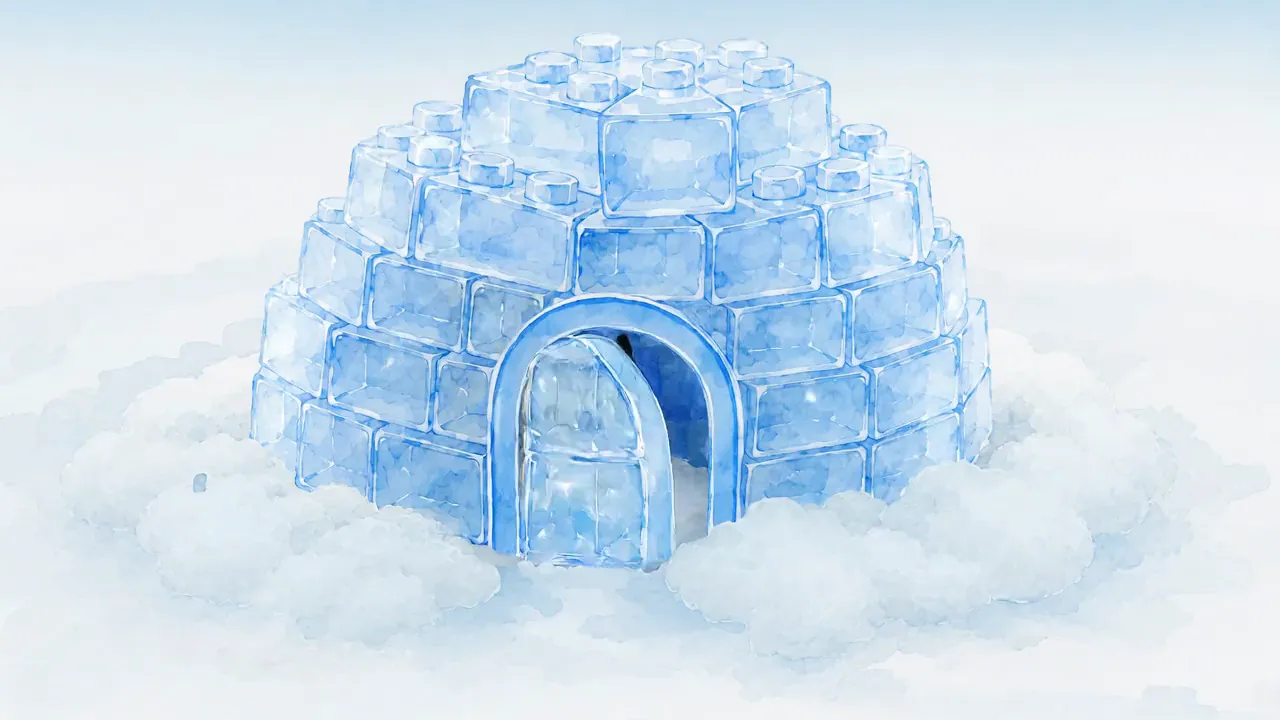
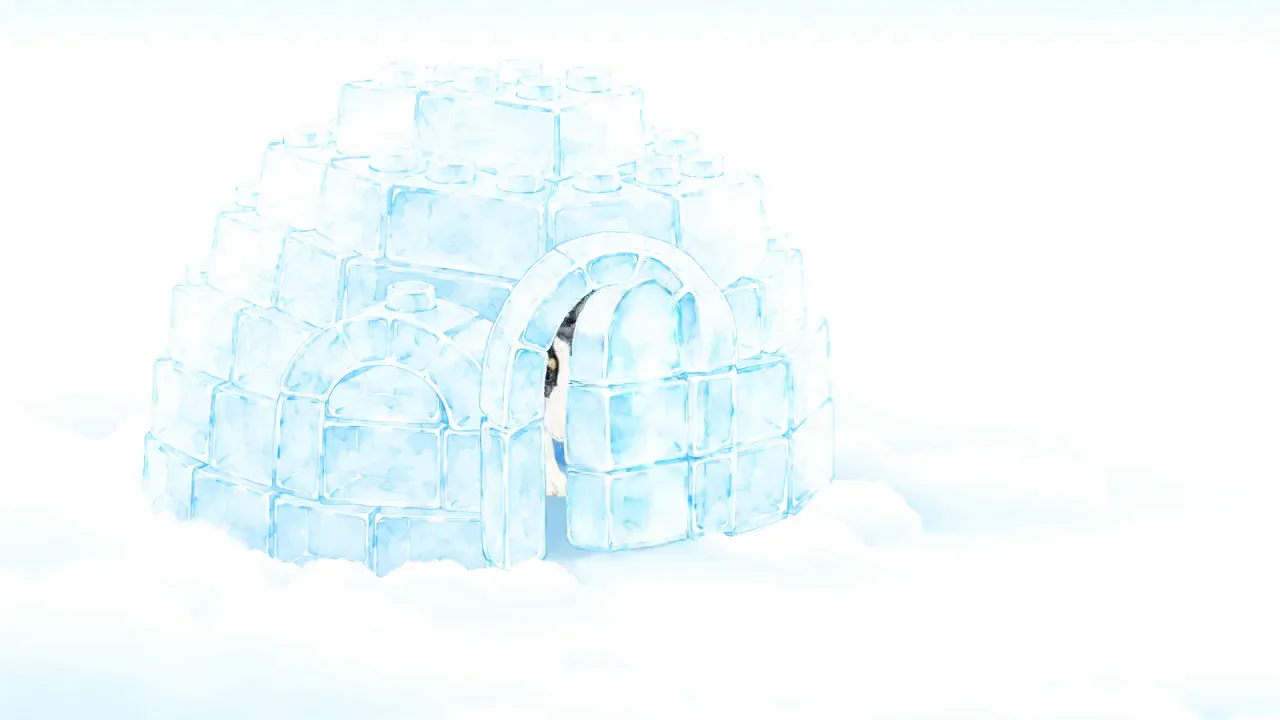
Fix §04 video blend: key out checkerboard, multiply onto white
The clips shipped with a baked-in fake-transparency checkerboard, which
read as 'pasted'. Clip highlights to pure white (ffmpeg curves @user.86) so
the checkerboard and scene clouds collapse to white while the husky and
igloo are preserved; place on a white->ice band and mix-blend-mode:multiply
so the clip's background vanishes with no visible frame edge. Re-encode
0.4MB, 28KB poster. Remove raw uploads.

diff --git a/assets/css/style.css b/assets/css/style.css
@@ -181,16 +181,16 @@ main{ position:relative; z-index:10; }
     radial-gradient(70% 50% at 50% -6%, rgba(120,108,230,.16), transparent 60%),
     linear-gradient(180deg, #E9E7FA, #EFEEFB);
 }
-/* video band — ground matched to the clip's icy backdrop (#CDDDEC) */
+/* video band — keyed clip sits on white; multiply melts its background */
 .block--vid{
-  background:linear-gradient(180deg, #DCE7F1, #CDDDEC 30%, #CDDDEC 78%, #DCE7F1);
+  background:
+    radial-gradient(60% 40% at 50% 0%, rgba(43,200,196,.06), transparent 60%),
+    linear-gradient(180deg, #FFFFFF, #F4FAFC);
 }
-.vid{ max-width:880px; margin:0 auto clamp(36px,6vw,60px); }
+.vid{ max-width:840px; margin:0 auto clamp(36px,6vw,60px); }
 .vid__player{
   display:block; width:100%; height:auto;
-  /* feather the rectangle into the matching background */
-  -webkit-mask-image:radial-gradient(115% 105% at 50% 50%, #000 62%, transparent 97%);
-          mask-image:radial-gradient(115% 105% at 50% 50%, #000 62%, transparent 97%);
+  mix-blend-mode:multiply;   /* white background of the clip disappears */
 }
 .wrap{ max-width:1080px; margin:0 auto; }
 